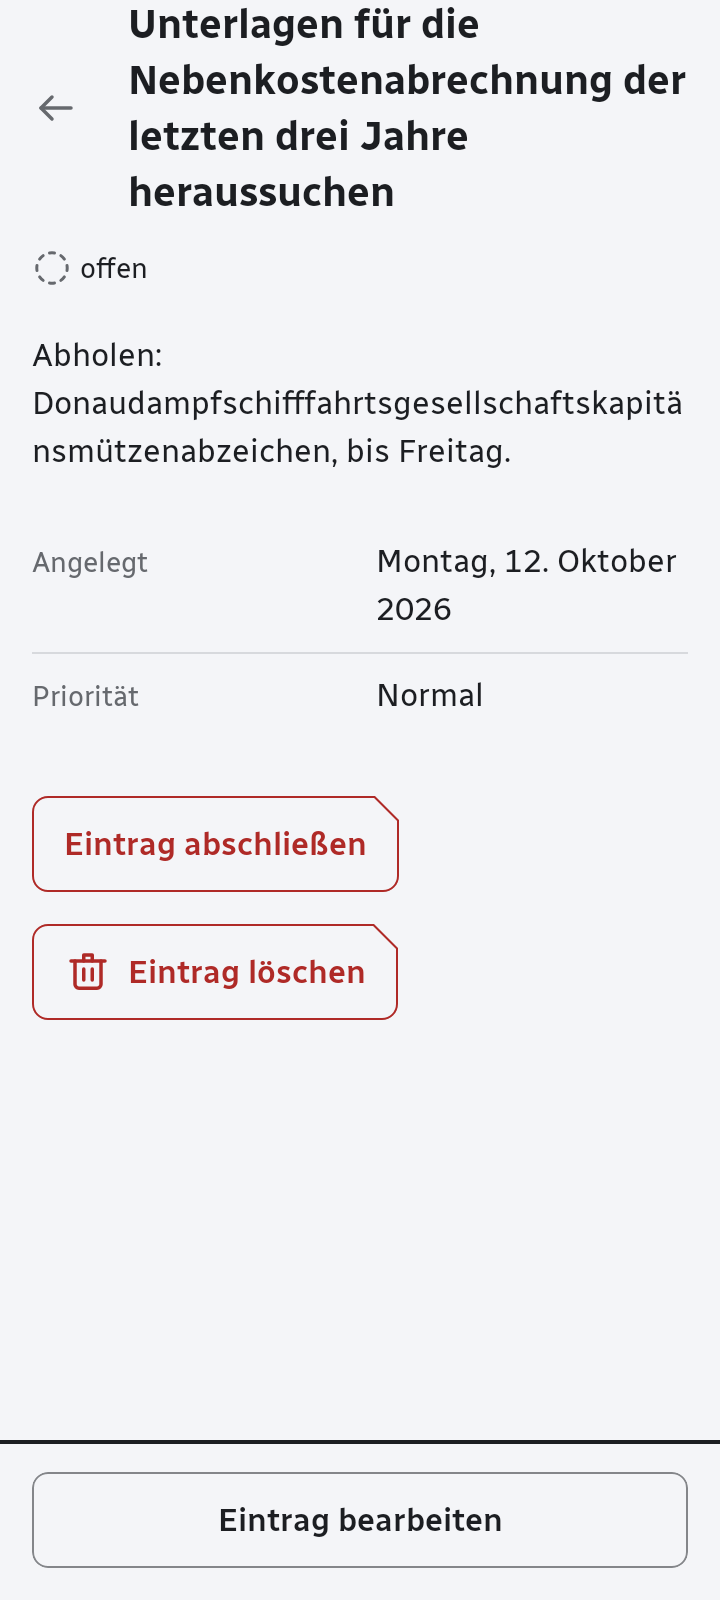
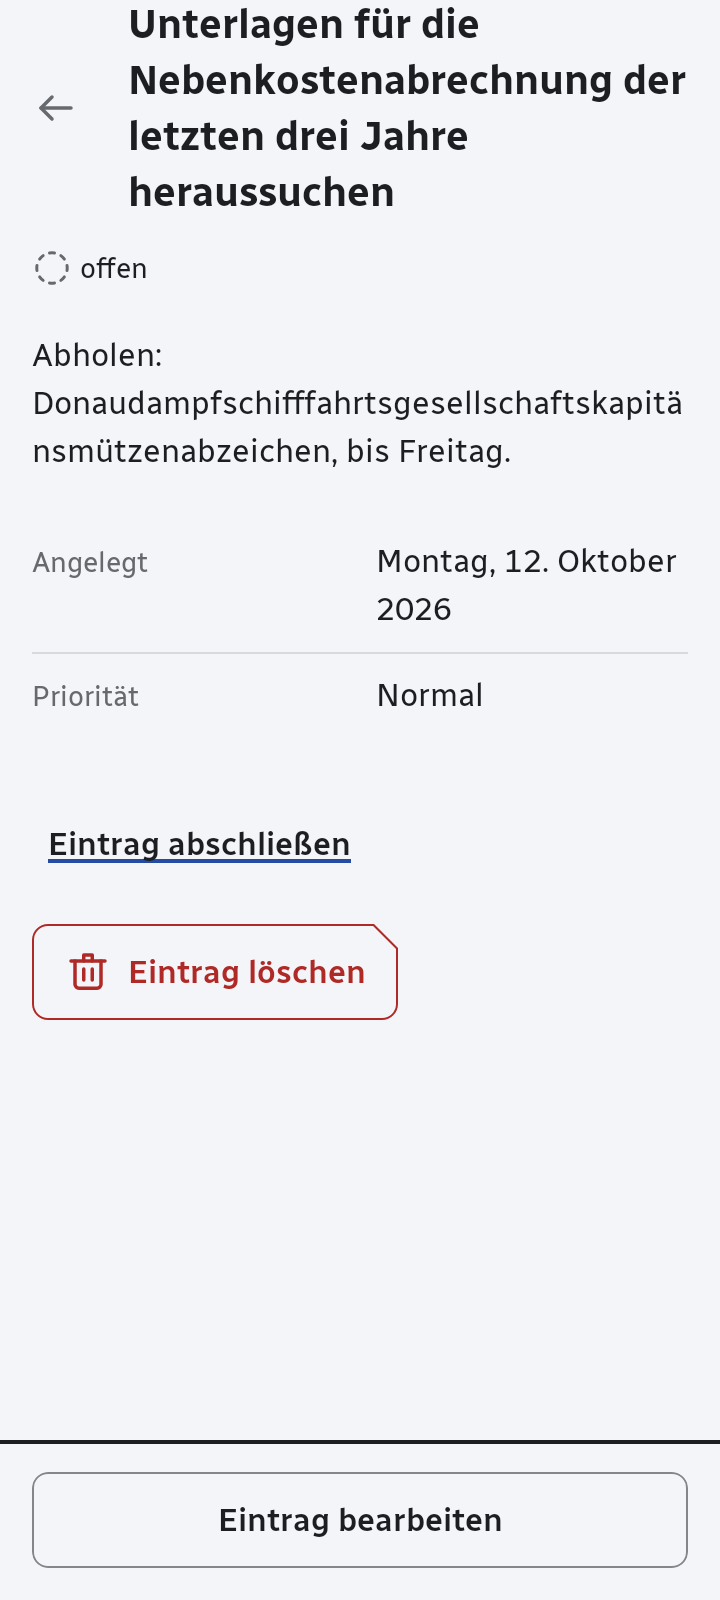
Android-Startvorlage: im Detail höchstens eine umrandete Aktion je Bereich (Kernregel 13)
Am Ende des Inhalts standen zwei umrandete Tasten. „Eintrag abschließen“ ist jetzt eine Textaktion (SbTextAction)
und fragt weiter; „Eintrag löschen“ bleibt die eine umrandete Aktion dort, in der Gefahrfarbe mit 45°-Kante,
Papierkorb und Dialog. Die Render-Bilder des Details sind neu gezeichnet.

Changed region(s): [[0.0306, 0.5, 0.4889, 0.5625]]

diff --git a/templates/android-compose/app/src/main/kotlin/de/sebaro_ventures/musterapp/ui/detail/DetailScreen.kt b/templates/android-compose/app/src/main/kotlin/de/sebaro_ventures/musterapp/ui/detail/DetailScreen.kt
@@ -21,6 +21,7 @@ import de.sebaro_ventures.design.designsystem.SbSecondaryAction
 import de.sebaro_ventures.design.designsystem.SbStatus
 import de.sebaro_ventures.design.designsystem.SbStatusGlyph
 import de.sebaro_ventures.design.designsystem.SbStatusTone
+import de.sebaro_ventures.design.designsystem.SbTextAction
 import de.sebaro_ventures.design.designsystem.SbTopBar
 import de.sebaro_ventures.design.designsystem.SbWrapText
 import de.sebaro_ventures.design.designsystem.sbMessages
@@ -33,9 +34,10 @@ import de.sebaro_ventures.musterapp.ui.label
 
 /**
  * View type `detail`, a sub-screen with „back“: the state as glyph and word, the note, the facts flat. A detail
- * has no primary action; „Eintrag bearbeiten“ is its one outlined action and goes once the entry is done. At the
- * end of the content stand the two steps that cannot be undone, both with the 45° cut and both asking first:
- * „Eintrag abschließen“ and, with the trash, „Eintrag löschen“.
+ * has no primary action; „Eintrag bearbeiten“ is the one outlined action of its zone and goes once the entry is
+ * done. At the end of the content stand the two steps that cannot be undone, both asking first: „Eintrag
+ * abschließen“ as a text action and „Eintrag löschen“, the one outlined action there, in the danger colour with
+ * the 45° cut and the trash.
  */
 @Composable
 fun DetailScreen(
@@ -91,7 +93,7 @@ fun DetailScreen(
             )
             Column(verticalArrangement = Arrangement.spacedBy(t.space.s4)) {
                 if (open) {
-                    SbDangerAction(
+                    SbTextAction(
                         sbStringResource(R.string.detail_finish),
                         onClick = { onAsk(DetailDialog.Finish) },
                     )

diff --git a/templates/android-compose/README.md b/templates/android-compose/README.md
@@ -31,7 +31,7 @@ Dateien: `…Screen.kt` (zustandslos), `…UiState.kt`, `…ViewModel.kt`, `…R
 | Bildschirm | Ansichtstyp | Was er zeigt |
 |---|---|---|
 | Einträge (`list`) | `list` | Suche, zwei Gruppen mit Zahl im Kopf, erledigte Zeilen treten zurück, Schlusssatz, leerer Zustand und „Kein Eintrag mit …“, Hauptaktion „Eintrag anlegen“ unten; im Zeilenmenü „Ausblenden“ mit Kurzmeldung und „Rückgängig“ |
-| Eintrag (`detail`) | `detail` | Zustand als Glyphe und Wort, Notiz, Eigenschaften flach; keine Hauptaktion, „Eintrag bearbeiten“ als die eine umrandete Aktion; am Ende „Eintrag abschließen“ und „Eintrag löschen“, beide mit der 45°-Kante, beide fragen zuerst |
+| Eintrag (`detail`) | `detail` | Zustand als Glyphe und Wort, Notiz, Eigenschaften flach; keine Hauptaktion, „Eintrag bearbeiten“ als die eine umrandete Aktion der Aktionszone; am Ende des Inhalts „Eintrag abschließen“ als Textaktion und „Eintrag löschen“ als die eine umrandete Aktion dort, in der Gefahrfarbe mit der 45°-Kante; beide fragen zuerst |
 | Neuer Eintrag, Eintrag bearbeiten (`form`) | `form` | Beschriftung über dem Feld, „Notiz (optional)“ mit Zähler, „Priorität“ als Segmente; die Hauptaktion bleibt drückbar und sagt „Titel fehlt.“ am Feld; „Bleibt auf diesem Gerät.“ darunter; Schließen mit Änderungen fragt „Abbrechen“ · „Verwerfen“ · „Sichern“ |
 | Daten (`data`) | ohne Hauptaktion | die Datenarten mit den Bauteilen der Kopie: Zahlen, Geld und Einheiten, Zeit, Zustand und Fortschritt, Kategorien und Markierung, Technisches, sortierbare Tabelle mit Summe, Diagramme, Bewertung |
 | Einstellungen (`settings`) | `settings` | „Hell oder Dunkel“, „Farbton“, „Bewegung immer reduzieren“; alles gilt sofort |
